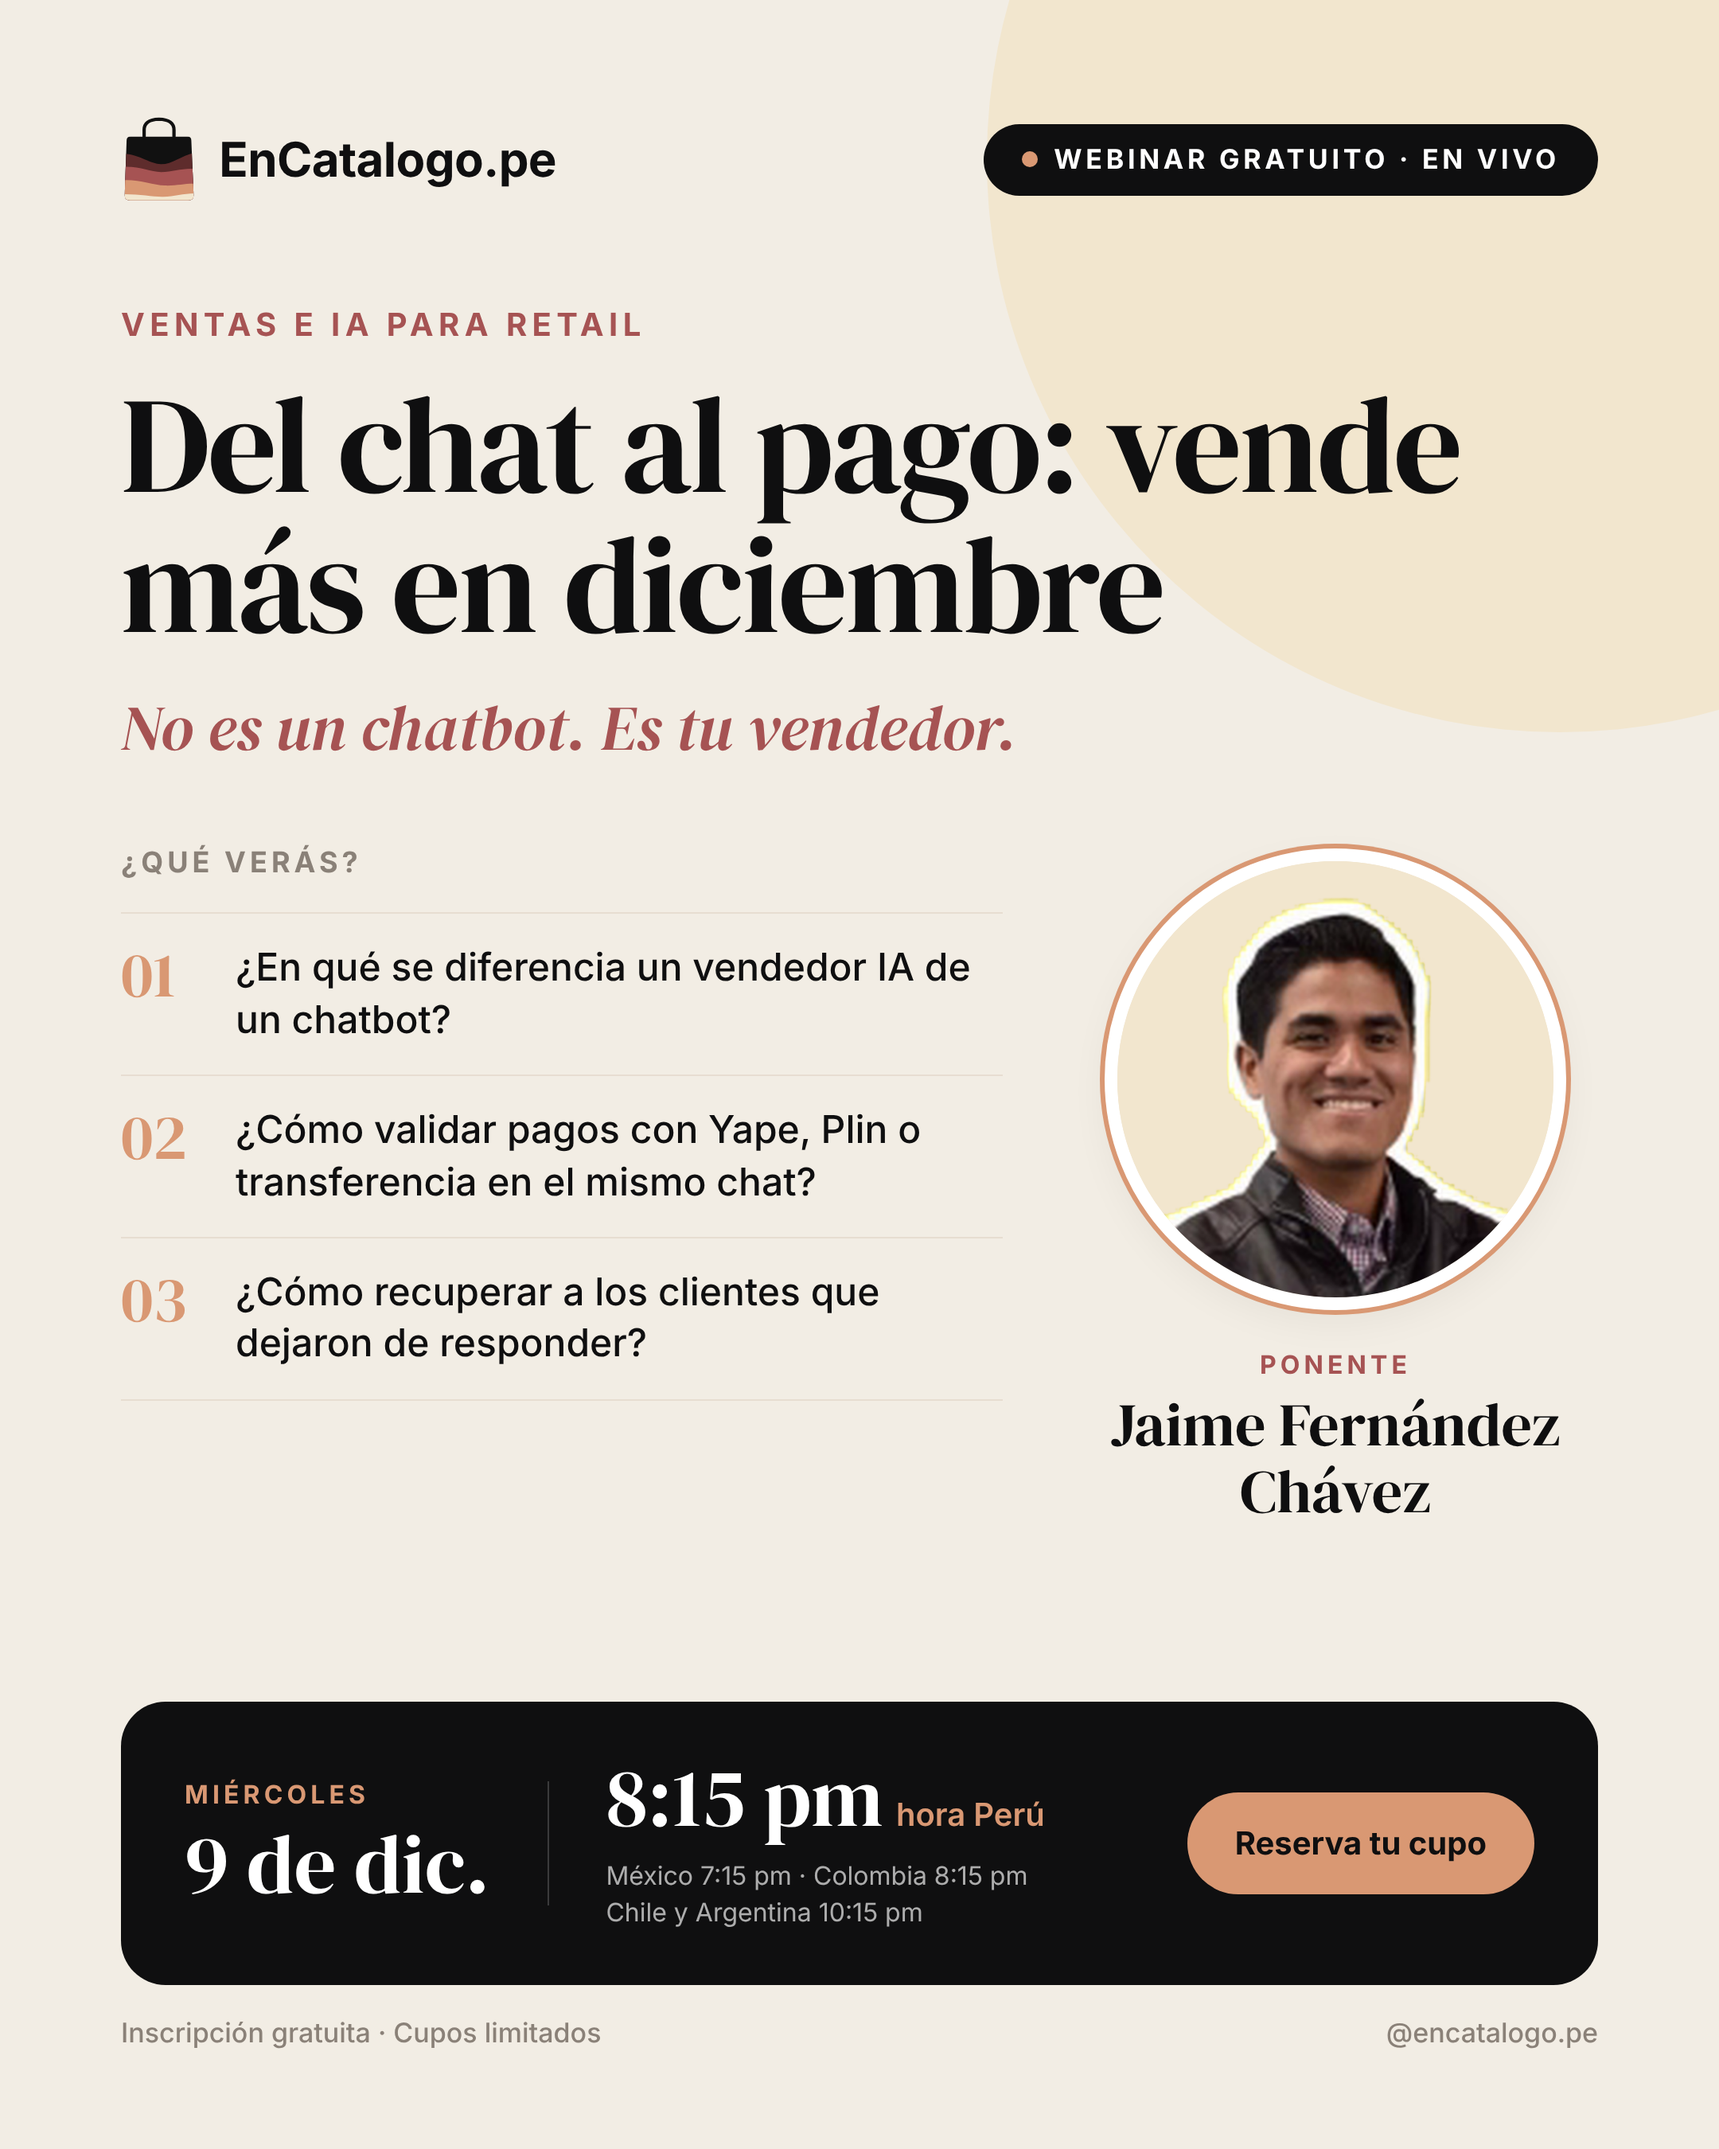
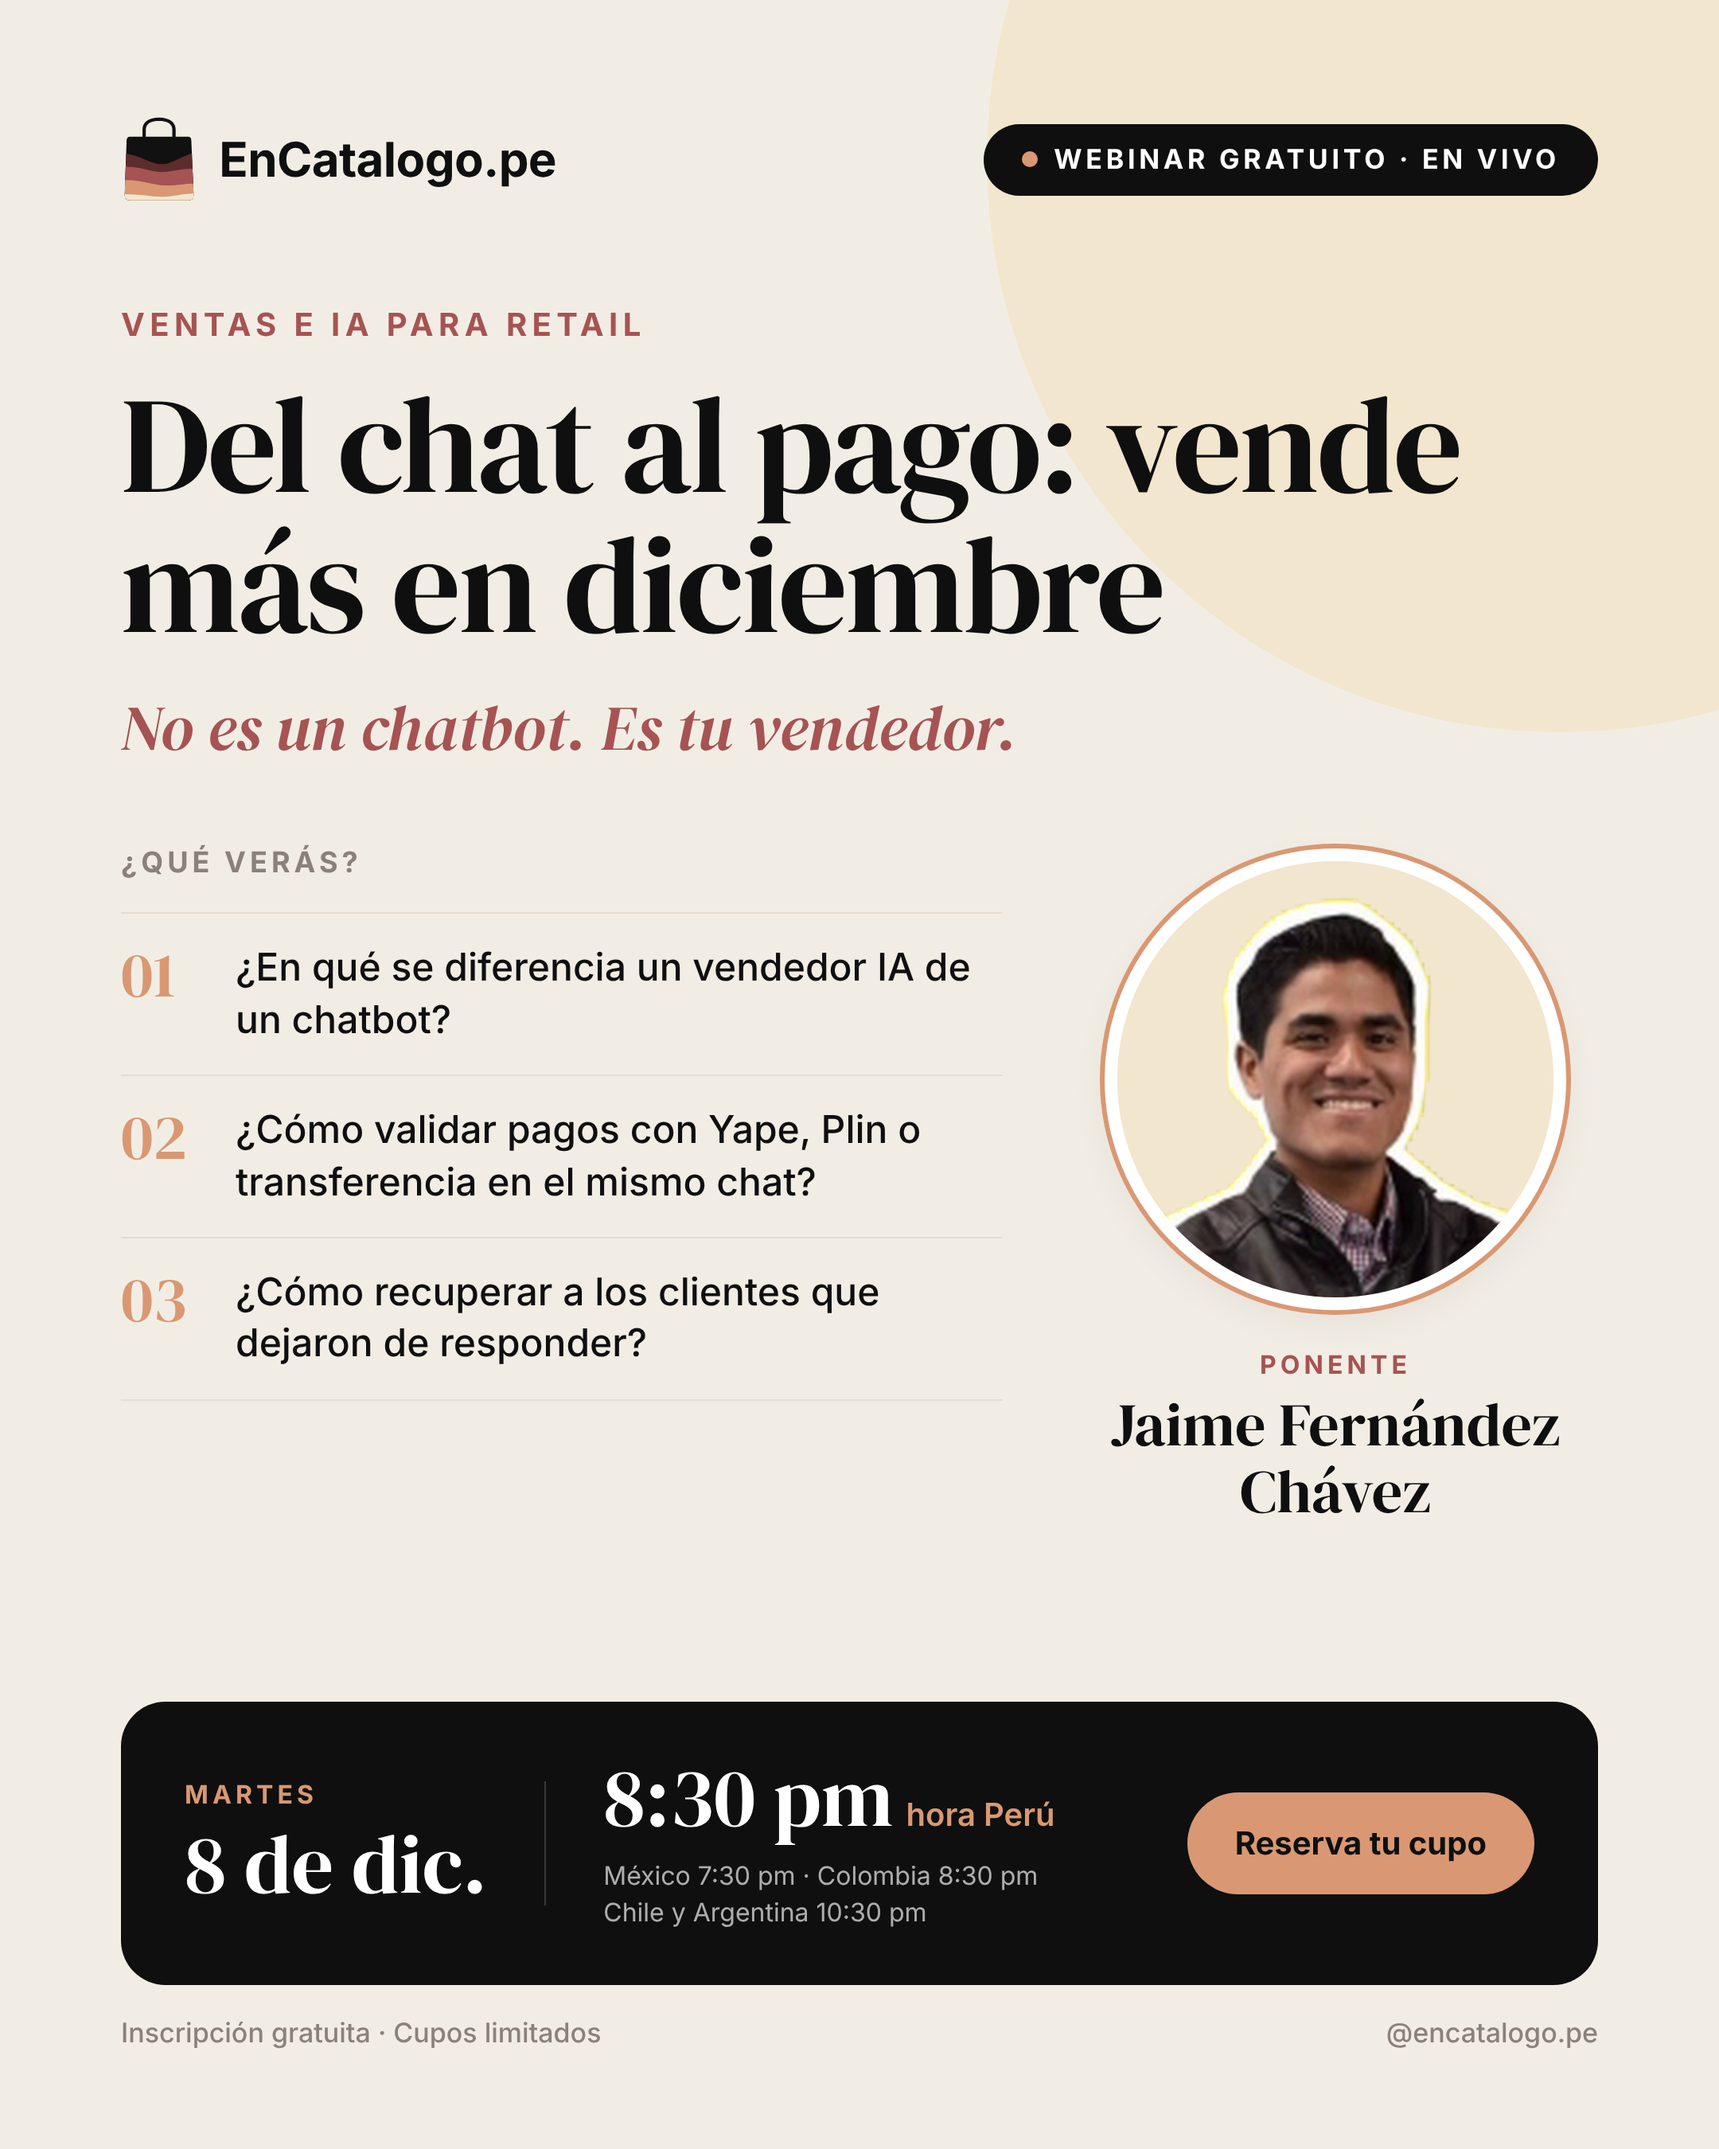
Webinar Del chat al pago: martes 8 dic, 8:30 pm Lima
Claude-Session: https://claude.ai/code/session_013TcxtorVcswT8d55UEdvDD

Changed region(s): [[0.3412, 0.8089, 0.6204, 0.9022], [0.1241, 0.8089, 0.2171, 0.8711], [0.2171, 0.84, 0.2481, 0.8711]]

diff --git a/flyers/webinar-vende-diciembre/flyer.html b/flyers/webinar-vende-diciembre/flyer.html
@@ -88,10 +88,10 @@
   </div>
 
   <div class="when">
-    <div class="date"><small>Miércoles</small><strong>9 de dic.</strong></div>
+    <div class="date"><small>Martes</small><strong>8 de dic.</strong></div>
     <div class="time">
-      <strong>8:15 pm<span>hora Perú</span></strong>
-      <p>México 7:15 pm · Colombia 8:15 pm<br>Chile y Argentina 10:15 pm</p>
+      <strong>8:30 pm<span>hora Perú</span></strong>
+      <p>México 7:30 pm · Colombia 8:30 pm<br>Chile y Argentina 10:30 pm</p>
     </div>
     <div class="cta">Reserva tu cupo</div>
   </div>

diff --git a/flyers/webinar-vende-diciembre/copys.md b/flyers/webinar-vende-diciembre/copys.md
@@ -1,11 +1,11 @@
 # Copys · Del chat al pago: vende más en diciembre
 
-Miércoles 9 de diciembre · 8:15 pm (hora Lima) · Ponente: Jaime Fernández Chávez
+Martes 8 de diciembre · 8:30 pm (hora Lima) · Ponente: Jaime Fernández Chávez
 
 ## ¿Qué va en Luma?
 
 Nombre del evento: **Del chat al pago: vende más en diciembre · Webinar gratuito**
-Fecha y hora: 9 de diciembre, 8:15 pm · zona horaria **America/Lima**
+Fecha y hora: 8 de diciembre, 8:30 pm · zona horaria **America/Lima**
 
 ```
 ¿Tus clientes preguntan por WhatsApp, piden fotos y precios… y luego desaparecen? ¿Pasas horas confirmando pagos de Yape y Plin a mano?
@@ -30,8 +30,8 @@ Un chatbot contesta lo que le preguntan. Un vendedor recomienda, envía fotos y 
 
 ## Detalles
 
-- 📅 Miércoles 9 de diciembre
-- ⏰ 8:15 pm hora Perú (7:15 pm México · 8:15 pm Colombia · 10:15 pm Chile y Argentina)
+- 📅 Martes 8 de diciembre
+- ⏰ 8:30 pm hora Perú (7:30 pm México · 8:30 pm Colombia · 10:30 pm Chile y Argentina)
 - 💻 Online y en vivo. Recibirás el enlace al registrarte.
 - ✅ Gratuito · Cupos limitados
 
